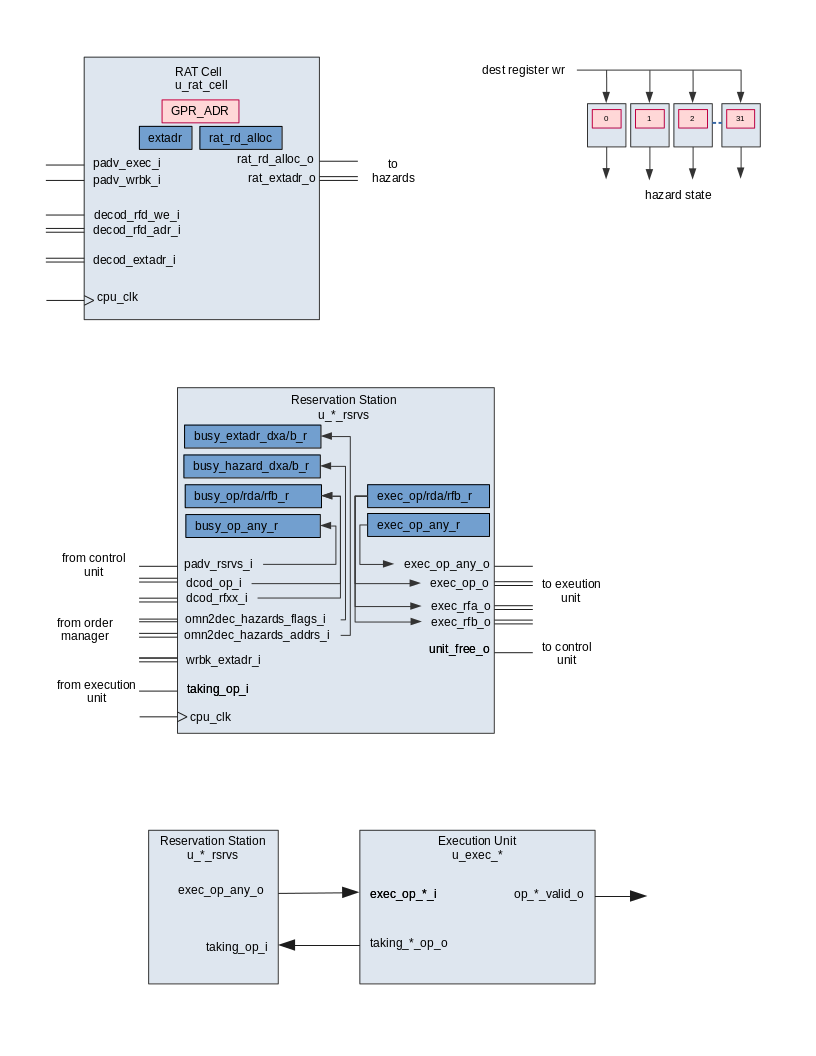
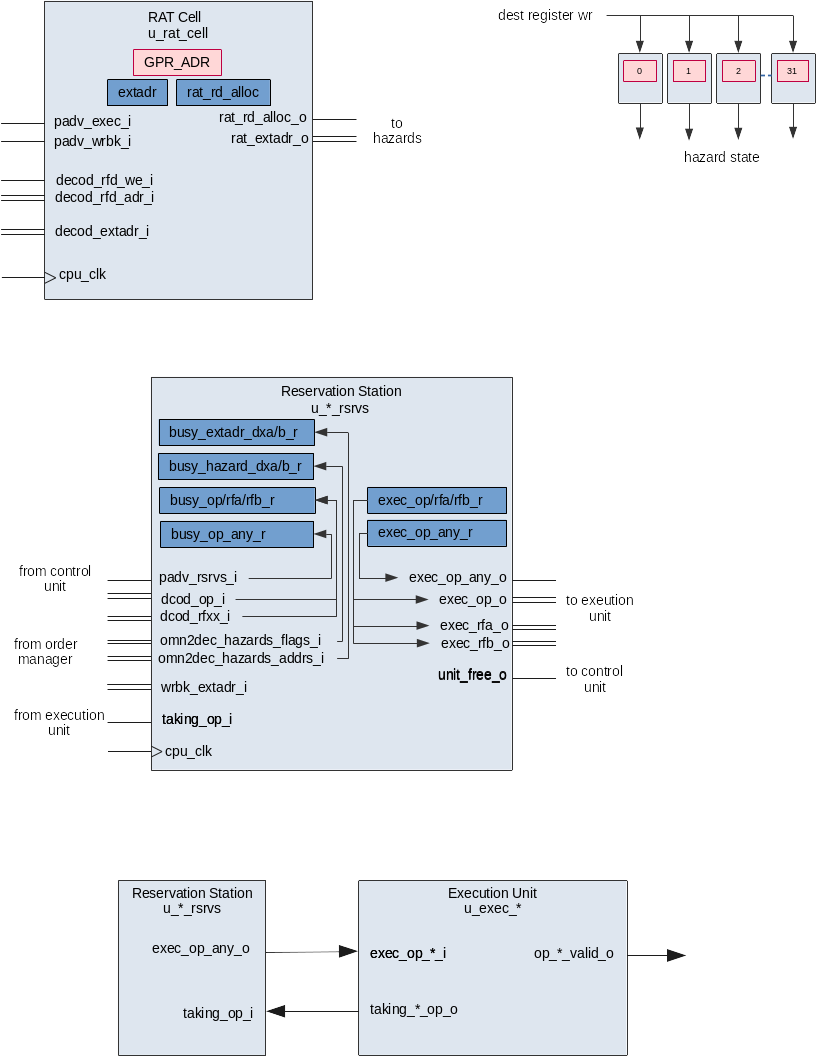
marocchino: final draft

diff --git a/_drafts/or1k_marocchino_tomasulo.md b/_drafts/or1k_marocchino_tomasulo.md
@@ -1,7 +1,7 @@
 ---
-title: OR1K Marocchino - Out of Order Execution
+title: OR1K Marocchino Out-of-Order Execution
 layout: post
-date: 2019-10-14 15:37
+date: 2019-10-21 15:37
 categories: [ hardware, embedded, openrisc ]
 ---
 
@@ -261,17 +261,44 @@ and the execution unit is free.
  - `busy_op_any_r` - populated with `1` when `padv_rsrvs_i` goes high indicates that
    there is an operation queued.
  - `busy_op_r` - populated with `dcod_op_i`. Represents the operation pending in the queue.
- - `busy_rda_r` - populated with data from `dcod_rfxx_i`. Represents the address of instruction operand A pending in the queue.
- - `busy_rdb_r` - populated with data from `dcod_rfxx_i`. Represents the address of instruction operand B pending in the queue.
+ - `busy_rfa_r` - populated with data from `dcod_rfxx_i`. Represents the value of operand A pending in the queue.
+ - `busy_rfb_r` - populated with data from `dcod_rfxx_i`. Represents the value of operand B pending in the queue.
 
 The reservation station resolves hazards by watching and comparing `wrbk_extadr_i`
 with the `busy_extadr_dxa_r` and `busy_extadr_dxb_r` registers.  If the two match
 it means that the instruction producing register A or B has finished writing back
 its results and the hazard can be cleared.
 
-When all hazard flags are cleared the contents of `busy_op_r` , `busy_rda_r` and
-`busy_rdb_r` will be transferred to `exec_op_any_r`, `exec_op_r`, etc.  When they
-are presented on the outputs the execution unit can take them and start processing.
+Writeback forwarding is handled via the following verilog multiplexer and register logic.
+The first bit is used to register the decoded values `dcod_rf*` from the register
+file otherwise we watch for inputs from the forwarding logic.  If there is a pending hazard
+results are forwarded from the common data bus, otherwise results are maintained.
+
+```verilog
+  // BUSY stage operands A1 & B1
+  always @(posedge cpu_clk) begin
+    if (padv_rsrvs_i) begin
+      busy_rfa1_r <= dcod_rfa1;
+      busy_rfb1_r <= dcod_rfb1;
+    end
+    else begin
+      busy_rfa1_r <= busy_rfa1;
+      busy_rfb1_r <= busy_rfb1;
+    end
+  end // @clock
+
+  // Forwarding
+  //  operand A1
+  assign busy_rfa1 =  busy_hazard_d1a1_r ? wrbk_result1_i :
+                     (busy_hazard_d2a1_r ? wrbk_result2_i : busy_rfa1_r);
+  //  operand B1
+  assign busy_rfb1 =  busy_hazard_d1b1_r ? wrbk_result1_i :
+                     (busy_hazard_d2b1_r ? wrbk_result2_i : busy_rfb1_r);
+```
+
+When all hazard flags are cleared the contents of `busy_op_r` , `busy_rfa_r` and
+`busy_rfb_r` will be transferred to `exec_op_any_r`, `exec_op_r`, etc.  They
+are presented on the outputs and the execution unit can take them and start processing.
 
 The `unit_free_o` output signals the control unit that the reservation station
 is free and can be issued another instruction.  The signal goes high when all hazards
@@ -312,21 +339,21 @@ unit.  It can retire a single instruction at a time.  The implementation is a 7
 entry FIFO queue.  This is much less than the Pentium Pro which contains 40
 slots.  The OCB receives a single instruction at time from the decoder and
 broadcasts the oldest instruction for other components to see.  Instructions are
-retired after execution writeback is complete. 
+retired after execution write back is complete. 
 
 If the OCB output indicates a branch instruction or an exception, branch logic
-is invoked.  Instead of waiting for writeback to a register the writback logic
+is invoked.  Instead of waiting for write back to a register the write back logic
 in the Marocchino will perform the branch operations.  This may include flushing
 the OCB.  Special care is taken to handle branch delay slot instruction execution.
 
 The OCB is different from a traditional Tomasulo Reorder Buffer (ROB) in that it
-does not store any execution writeback results.
+does not store any execution write back results.
 
 Each OCB entry stores:
 
  - The Instruction ID `extaddr`
  - The type of instruction
- - The register destination addresses used for writeback
+ - The register destination addresses used for write back
  - Any Fetch and Decode exceptions
 
 This can be seen as defined by the `ocbi` and `ocbi` wire buses in
@@ -374,7 +401,7 @@ This can be seen as defined by the `ocbi` and `ocbi` wire buses in
 
 ### Common Data Bus
 
-As discussed above the common data collects writeback results from execution units
+As discussed above the common data collects write back results from execution units
 and routes them for write back.
 
 This can be seen in the [or1k_marocchino_cpu.v](https://github.com/openrisc/or1k_marocchino/blob/master/rtl/verilog/or1k_marocchino_cpu.v#L1933)
@@ -403,9 +430,9 @@ can only decode 1 at a time.
 
 Furthermore many improvements can be made to Marocchino to increase performance.  Including:
 
- - Full feature reorder buffer
+ - Full featured reorder buffer
  - Parallel instruction decoding
- - Branch prediction
+ - Speculative execution; [or should we?](https://meltdownattack.com/)
  - More reservation station slots
 
 However, these come with a cost of size on the FPGA.  If you are interested in helping
